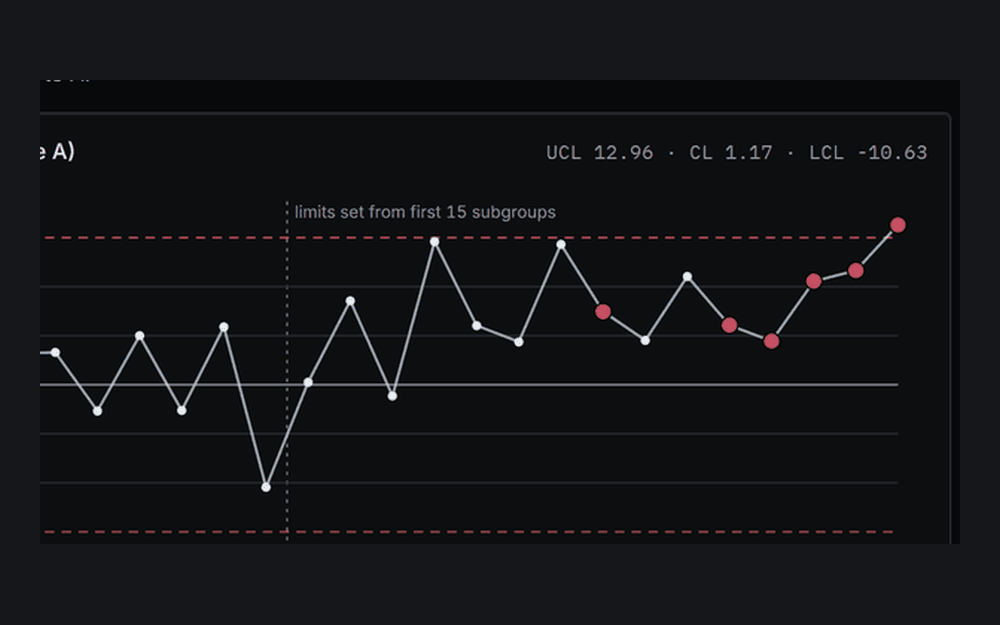
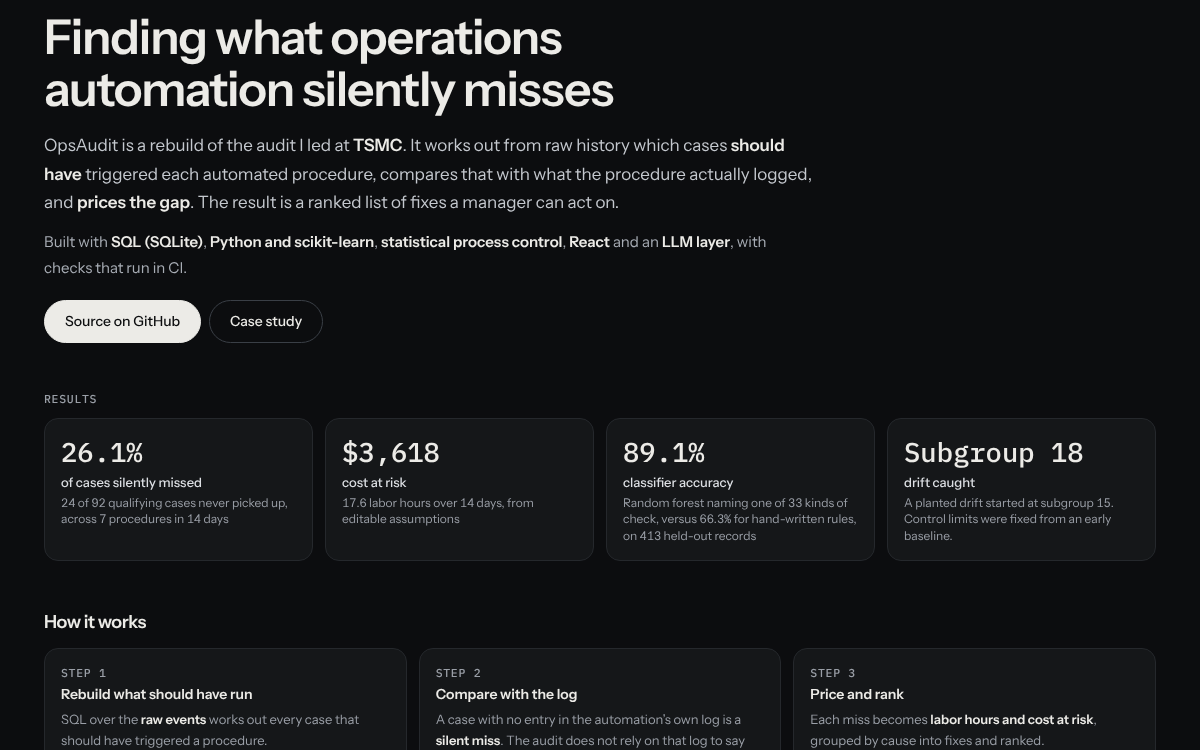
Front-load OpsAudit: summary on the case study, new cover and screenshot (#6)
* Front-load OpsAudit: summary on the case study, new cover and screenshot, result-first card

Claude-Session: https://claude.ai/code/session_012FPgiyy9kCMpvbqsYyKmgc

* Tighten OpsAudit subtitle and results list

Claude-Session: https://claude.ai/code/session_012FPgiyy9kCMpvbqsYyKmgc

---------

diff --git a/projects/opsaudit.html b/projects/opsaudit.html
@@ -37,17 +37,28 @@
 <main class="page">
   <p class="back"><a href="../index.html">Back to the home page</a></p>
   <h1>OpsAudit <span class="status">live demo</span></h1>
-  <p class="sub">Finding what operations automation silently misses, and putting a price on it. Synthetic data, plus one public real-data check. JavaScript, React, SQLite, Python, scikit-learn.</p>
+  <p class="sub">Finding what operations automation silently misses, and putting a price on it. JavaScript, React, SQLite, Python, scikit-learn.</p>
+
+  <div class="summary">
+    <p class="eyebrow">Summary</p>
+    <p>A rebuild of the audit I led at <strong>TSMC</strong>. It reconstructs from raw history which cases <strong>should have</strong> triggered each automated procedure, compares that with what the procedure logged, and <strong>prices the gap</strong> into a ranked list of fixes.</p>
+    <ul>
+      <li><strong>24 of 92</strong> qualifying cases silently missed (<strong>26.1%</strong>), sized at <strong>17.6 labor hours</strong> and <strong>$3,618</strong> at risk over 14 days.</li>
+      <li>A <strong>random forest</strong> classifier named which of <strong>33</strong> kinds of check a messy procedure definition describes with <strong>89.1%</strong> accuracy, against <strong>66.3%</strong> for hand-written rules.</li>
+      <li><strong>Statistical process control</strong> flagged a planted drift three subgroups after it began.</li>
+    </ul>
+    <p class="stack"><strong>SQL</strong>, <strong>Python</strong>, <strong>scikit-learn</strong>, <strong>statistical process control</strong>, <strong>React</strong>, LLM evaluation.</p>
+  </div>
 
   <figure class="shot">
-    <img src="img/opsaudit-demo.gif" width="880" height="546" alt="A 15-second walkthrough of the OpsAudit demo: the audit, the control charts, the fix queue and the classifier.">
-    <figcaption>A 15-second walkthrough of the live demo. <a href="https://dstew2816.github.io/ops-audit/">Open it and click around.</a></figcaption>
+    <img src="img/opsaudit-summary.png" width="1280" height="800" alt="The front page of the OpsAudit demo: the summary, four headline results and the start of the how-it-works steps.">
+    <figcaption>The front page of the <a href="https://dstew2816.github.io/ops-audit/">live demo</a>. It opens on the results and keeps the detail a click away.</figcaption>
   </figure>
 
   <h2>The problem</h2>
   <p>Automated procedures watch for a condition, such as a port blocked for 30 minutes, and act on it. They run on live events with no historical replay. If the platform is down, an event arrives late, or a rule is slightly too narrow, the case is never picked up and nothing records that it was missed.</p>
   <p>Success metrics are calculated over the cases that were handled, so a procedure can report 100% while missing a quarter of what it should have caught.</p>
-  <p class="note">This is a demo of the kind of work I did at my TSMC internship. All data on this page is synthetic, except the clearly labeled public-data check.</p>
+  
 
 
 <h2>Who it is for</h2>
@@ -71,9 +82,9 @@
 
 <h2>Results</h2>
   <ul>
-    <li><strong>26.1%</strong>: miss rate: 24 of 92 qualifying cases</li>
-    <li><strong>89% vs 66%</strong>: accuracy: random forest vs hand-written rules, on 413 held-out records</li>
-    <li><strong>33</strong>: specific check types classified</li>
+    <li><strong>26.1%</strong> miss rate: 24 of 92 qualifying cases</li>
+    <li><strong>89% vs 66%</strong> accuracy: random forest vs hand-written rules, on 413 held-out records</li>
+    <li><strong>33</strong> specific check types classified</li>
   </ul>
 
   <p><strong>Audit.</strong> 92 qualifying cases, 68 logged, 24 missed. Grouped into fixes and ranked by cost at risk, the largest fix, an outage backfill, covers 8 of the 24 misses.</p>
@@ -96,7 +107,7 @@
 
   <p><strong>Real data, and a weak result.</strong> I stress-tested the same ideas on UCI SECOM, a public semiconductor dataset of 1,567 production runs. The control charts as built did not separate failures from passes (95.0% of failing runs were flagged, but so were 98.8% of passing runs), and no classifier clearly beat chance on the later runs.</p>
   <p><strong>AI layers.</strong> One run each. The right procedure resolved 5 of 5 times, but only 2 of 5 generated queries matched the baseline exactly. Root-cause grouping passed 3 of 5 checks and recovered the outage cluster exactly.</p>
-  <p class="note">Limits: synthetic data, a small sample (24 misses, one 14-day window), answer keys I wrote myself, and one run of each AI layer. The numbers show how the method behaves on small samples and should not be read as a benchmark or a forecast.</p>
+  <p class="note">Limits: this is a demo of the kind of work I did at TSMC, and all data on this page is synthetic except the clearly labeled public-data check. Other limits: a small sample (24 misses, one 14-day window), answer keys I wrote myself, and one run of each AI layer. The numbers show how the method behaves on small samples and should not be read as a benchmark or a forecast.</p>
 
 
 <h2>What I would do next</h2>

diff --git a/index.html b/index.html
@@ -105,7 +105,7 @@
       <div class="cover"><img src="img/cover-opsaudit.png" width="1000" height="625" alt="A control chart showing a drift between two process lanes being caught"><span class="badge live">Live demo</span></div>
       <div class="proj-body">
         <div class="proj-top"><h3>OpsAudit</h3><span class="arrow" aria-hidden="true">&nearr;</span></div>
-        <p>An audit that rebuilds what automated procedures should have caught. On synthetic data it found 26.1 percent of cases missed, and when I tried the same ideas on a public semiconductor dataset they did not hold up, which I wrote up.</p>
+        <p>An audit that finds what operations automation silently misses and prices the gap. It found <b>24 of 92</b> cases never ran and ranked the fixes, using <b>SQL</b>, <b>Python</b> and <b>statistical process control</b>. On a public semiconductor dataset the method did not hold up, which I wrote up.</p>
         <span class="meta mono">Python, SQL, JavaScript</span>
       </div>
     </a>

diff --git a/site.css b/site.css
@@ -205,3 +205,10 @@ footer a { color: var(--text); }
 .outside p { margin: 0; font-size: .95rem; }
 .outside p.eyebrow { font-size: .72rem; }
 @media (min-width: 52rem) { .outside { grid-template-columns: 1fr 1fr; } .outside .card:first-child, .outside .card:last-child { grid-column: 1 / -1; } }
+
+.page .summary { margin: 1.5rem 0 1.75rem; padding: 1.25rem 1.4rem; background: var(--surface); border: 1px solid var(--line); border-radius: 14px; }
+.page .summary .eyebrow { margin: 0 0 .5rem; }
+.page .summary p { margin: 0 0 .7rem; }
+.page .summary ul { margin: 0 0 .7rem; }
+.page .summary .stack { margin: 0; color: var(--muted); font-size: .92rem; }
+.proj p b { color: var(--text); font-weight: 600; }
